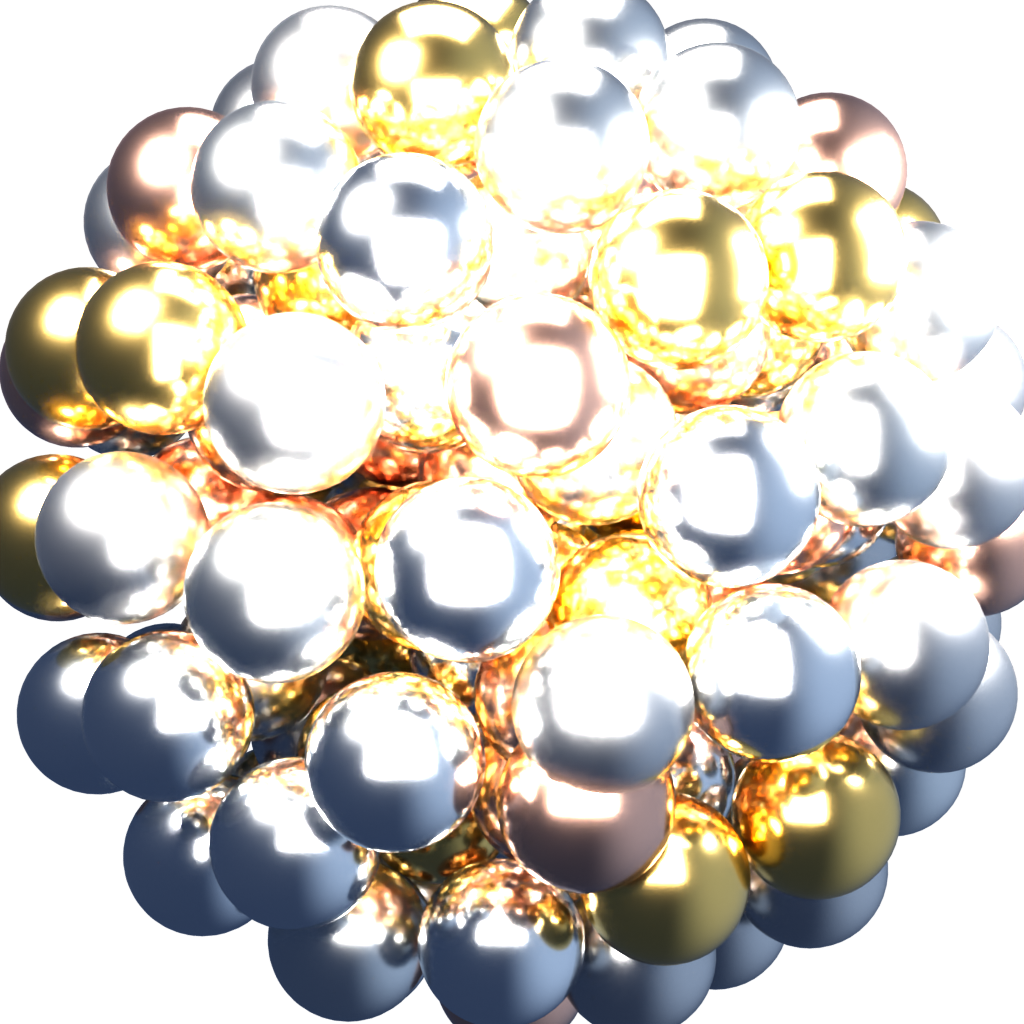
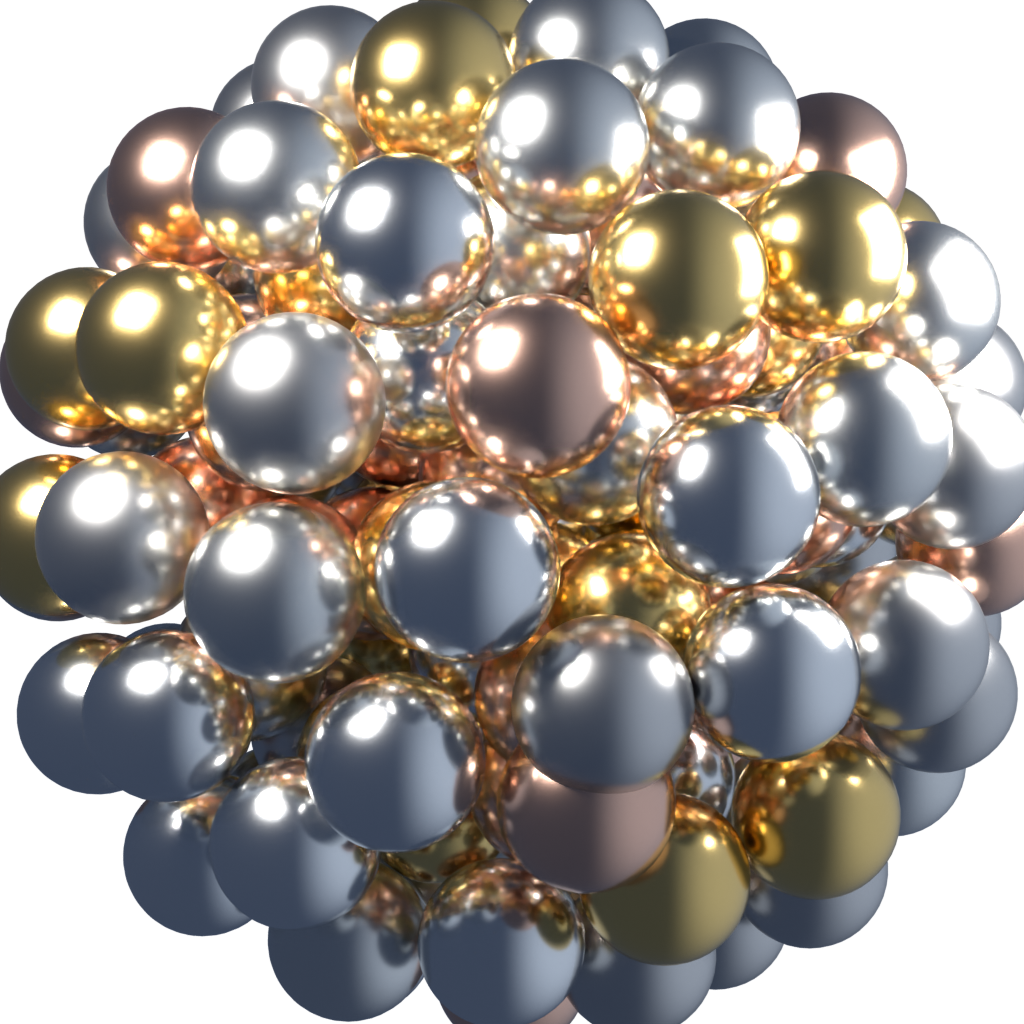
Site: reference-matched cluster lighting (less blown-out)
The previous render was overlit — too much fill, exposure 1.1, ~30k W
of total area light. Each ball read as a glare blob, no shadow
gradient.

Match the Gemini reference's tone instead:
- Single dominant key light (9000 W from upper-left)
- Modest right fill (1500 W) and rim (2200 W) — only what's needed
  to keep the shadow side legible and the silhouette visible against
  the dark backdrop. Drop the redundant top-fill and front-fill.
- Exposure 1.1 → 0.3, look "High Contrast" → "Medium Contrast".
- Slight roughness bump (Au 0.18 → 0.20, etc.) so highlights are
  tight specular dots rather than razor-sharp mirror reflections.
- World gradient brightened a touch (strength 1.0 → 1.4) so the
  metal has something to reflect on its shadow side and doesn't go
  olive-green.

Each ball now has a clean top-left highlight, full-saturation mid-tone
body, and a deep rim shadow — same look as the reference poster.

diff --git a/docs/render_clusters.py b/docs/render_clusters.py
@@ -79,11 +79,11 @@ def make_metal(name, base_color, roughness=0.2):
         bsdf.inputs['Specular'].default_value = 0.55
     return mat
 
-mat_au = make_metal("Gold",      (1.000, 0.700, 0.250), 0.18)
-mat_ag = make_metal("Silver",    (0.940, 0.940, 0.920), 0.16)
-mat_cu = make_metal("Copper",    (0.955, 0.580, 0.430), 0.20)
-mat_pt = make_metal("Platinum",  (0.820, 0.810, 0.770), 0.22)
-mat_pd = make_metal("Palladium", (0.700, 0.680, 0.650), 0.26)
+mat_au = make_metal("Gold",      (1.000, 0.700, 0.250), 0.20)
+mat_ag = make_metal("Silver",    (0.940, 0.940, 0.920), 0.18)
+mat_cu = make_metal("Copper",    (0.955, 0.580, 0.430), 0.22)
+mat_pt = make_metal("Platinum",  (0.820, 0.810, 0.770), 0.24)
+mat_pd = make_metal("Palladium", (0.700, 0.680, 0.650), 0.28)
 
 
 # ─── Composition by mode ─────────────────────────────────────────────
@@ -148,27 +148,18 @@ def add_area_light(loc, rot, energy, size=5.0):
     L.rotation_euler = rot
     return L
 
-# Key light — bright, upper-left, slightly in front
+# Reference-matched 3-point rig: dominant key from upper-left (gives the
+# classic specular-on-each-ball look), modest fill for shadow-side
+# legibility, rim for silhouette.
 add_area_light(loc=(-9, -9, 11),
                rot=(math.radians(40), 0, math.radians(-42)),
-               energy=14000, size=6)
-# Fill — right side, softer
+               energy=9000, size=6)
 add_area_light(loc=(8, -3, 4),
                rot=(math.radians(58), 0, math.radians(72)),
-               energy=4500, size=5)
-# Rim — back, picks out silhouette
-add_area_light(loc=(0, 9, 7),
+               energy=1500, size=5)
+add_area_light(loc=(0, 9, 6),
                rot=(math.radians(-55), 0, math.radians(180)),
-               energy=6000, size=5)
-# Top fill — diffuse from above so the upper hemisphere isn't black
-add_area_light(loc=(0, 0, 14),
-               rot=(0, 0, 0),
-               energy=2000, size=10)
-# Front fill — gentle key-side fill that brightens the camera-facing
-# side without killing the rim contrast
-add_area_light(loc=(0, -10, 2),
-               rot=(math.radians(80), 0, 0),
-               energy=2500, size=8)
+               energy=2200, size=5)
 
 
 # ─── Camera ─────────────────────────────────────────────────────────
@@ -216,9 +207,9 @@ links.new(gradient.outputs['Color'],      ramp.inputs['Fac'])
 links.new(ramp.outputs['Color'],          bg_node.inputs[0])
 links.new(bg_node.outputs['Background'],  out_node.inputs['Surface'])
 
-ramp.color_ramp.elements[0].color = (0.020, 0.030, 0.055, 1)   # bottom
-ramp.color_ramp.elements[1].color = (0.140, 0.180, 0.250, 1)   # top — modest sky tint, lights do the work
-bg_node.inputs[1].default_value = 1.0
+ramp.color_ramp.elements[0].color = (0.025, 0.035, 0.060, 1)   # bottom
+ramp.color_ramp.elements[1].color = (0.220, 0.260, 0.330, 1)   # top — gives the metal something to reflect, but still dim
+bg_node.inputs[1].default_value = 1.4
 
 
 # ─── Render settings ────────────────────────────────────────────────
@@ -232,8 +223,8 @@ scene.render.film_transparent           = True
 scene.render.image_settings.file_format = 'PNG'
 scene.render.image_settings.color_mode  = 'RGBA'
 scene.view_settings.view_transform      = 'Standard'
-scene.view_settings.look                = 'High Contrast'
-scene.view_settings.exposure            = 1.1
+scene.view_settings.look                = 'Medium Contrast'
+scene.view_settings.exposure            = 0.3
 
 # Try GPU; silently fall back to CPU if no device
 try:
